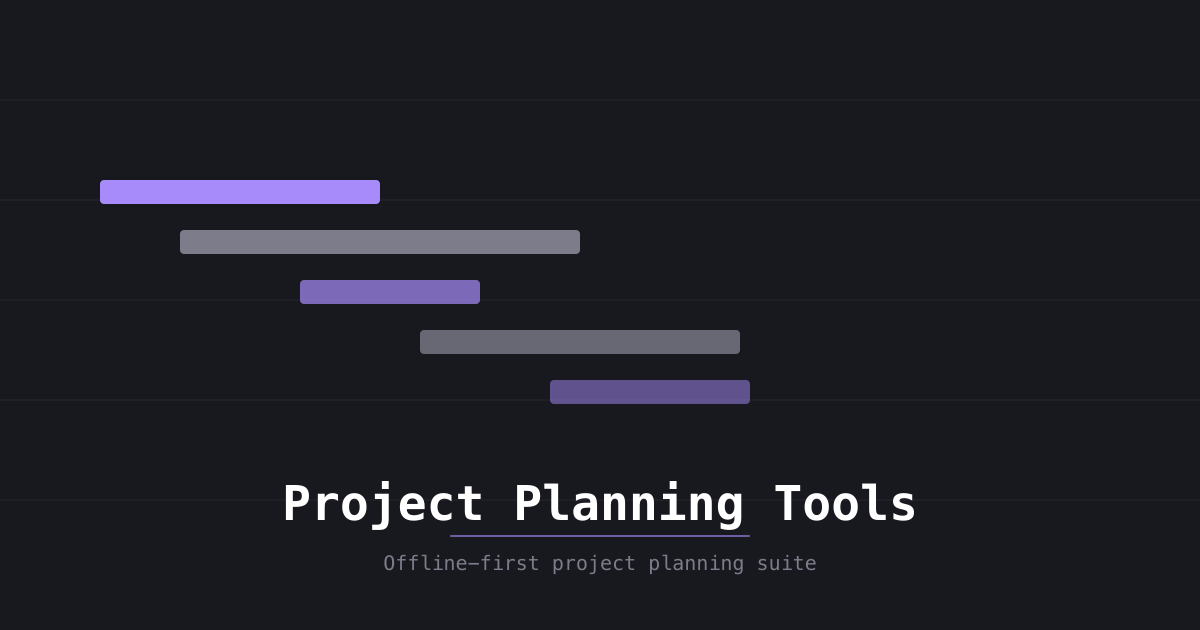
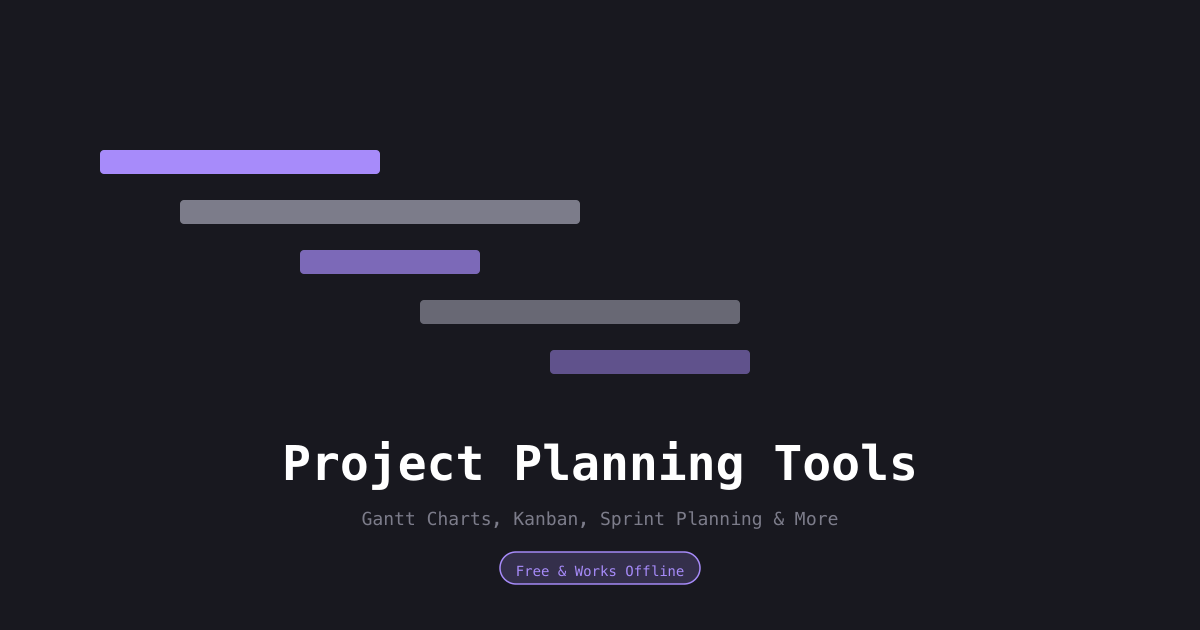
feat(meta): improve OG metadata for social sharing
- Update title to include tool names (53 chars, optimized for display)
- Expand description with "Free" keyword and value proposition (156 chars)
- Add "Free & Works Offline" CTA badge to og-image.png
- Remove background lines from og-image for cleaner appearance
- Apply consistent meta tags across all 11 HTML pages

Changed region(s): [[0.0617, 0.2111, 0.6475, 0.6635], [0.2158, 0.6937, 0.7708, 0.9349]]

diff --git a/tools/burndown/index.html b/tools/burndown/index.html
@@ -8,19 +8,19 @@
   <link rel="icon" type="image/svg+xml" href="../../favicon.svg">
 
   <!-- Description -->
-  <meta name="description" content="Offline-first project planning tools: Gantt charts, Kanban boards, Sprint planning, and more. No account required.">
+  <meta name="description" content="Free, offline-first planning tools: Gantt charts, Kanban boards, Sprint planning, Burndown charts & more. No account required — data stays in your browser.">
 
   <!-- Open Graph -->
   <meta property="og:type" content="website">
   <meta property="og:url" content="https://project.bissbert.ch/">
-  <meta property="og:title" content="Project Planning Tools">
-  <meta property="og:description" content="Offline-first project planning tools: Gantt charts, Kanban boards, Sprint planning, and more.">
+  <meta property="og:title" content="Project Planning Tools — Gantt, Kanban, Sprint & More">
+  <meta property="og:description" content="Free, offline-first planning tools: Gantt charts, Kanban boards, Sprint planning, Burndown charts & more. No account required — data stays in your browser.">
   <meta property="og:image" content="https://project.bissbert.ch/og-image.png">
 
   <!-- Twitter Card -->
   <meta name="twitter:card" content="summary_large_image">
-  <meta name="twitter:title" content="Project Planning Tools">
-  <meta name="twitter:description" content="Offline-first project planning tools: Gantt charts, Kanban boards, Sprint planning, and more.">
+  <meta name="twitter:title" content="Project Planning Tools — Gantt, Kanban, Sprint & More">
+  <meta name="twitter:description" content="Free, offline-first planning tools: Gantt charts, Kanban boards, Sprint planning, Burndown charts & more. No account required — data stays in your browser.">
   <meta name="twitter:image" content="https://project.bissbert.ch/og-image.png">
 
   <!-- PWA & iOS -->

diff --git a/tools/dashboard/index.html b/tools/dashboard/index.html
@@ -8,19 +8,19 @@
   <link rel="icon" type="image/svg+xml" href="../../favicon.svg">
 
   <!-- Description -->
-  <meta name="description" content="Offline-first project planning tools: Gantt charts, Kanban boards, Sprint planning, and more. No account required.">
+  <meta name="description" content="Free, offline-first planning tools: Gantt charts, Kanban boards, Sprint planning, Burndown charts & more. No account required — data stays in your browser.">
 
   <!-- Open Graph -->
   <meta property="og:type" content="website">
   <meta property="og:url" content="https://project.bissbert.ch/">
-  <meta property="og:title" content="Project Planning Tools">
-  <meta property="og:description" content="Offline-first project planning tools: Gantt charts, Kanban boards, Sprint planning, and more.">
+  <meta property="og:title" content="Project Planning Tools — Gantt, Kanban, Sprint & More">
+  <meta property="og:description" content="Free, offline-first planning tools: Gantt charts, Kanban boards, Sprint planning, Burndown charts & more. No account required — data stays in your browser.">
   <meta property="og:image" content="https://project.bissbert.ch/og-image.png">
 
   <!-- Twitter Card -->
   <meta name="twitter:card" content="summary_large_image">
-  <meta name="twitter:title" content="Project Planning Tools">
-  <meta name="twitter:description" content="Offline-first project planning tools: Gantt charts, Kanban boards, Sprint planning, and more.">
+  <meta name="twitter:title" content="Project Planning Tools — Gantt, Kanban, Sprint & More">
+  <meta name="twitter:description" content="Free, offline-first planning tools: Gantt charts, Kanban boards, Sprint planning, Burndown charts & more. No account required — data stays in your browser.">
   <meta name="twitter:image" content="https://project.bissbert.ch/og-image.png">
 
   <!-- PWA & iOS -->

diff --git a/tools/gantt/index.html b/tools/gantt/index.html
@@ -8,19 +8,19 @@
   <link rel="icon" type="image/svg+xml" href="../../favicon.svg">
 
   <!-- Description -->
-  <meta name="description" content="Offline-first project planning tools: Gantt charts, Kanban boards, Sprint planning, and more. No account required.">
+  <meta name="description" content="Free, offline-first planning tools: Gantt charts, Kanban boards, Sprint planning, Burndown charts & more. No account required — data stays in your browser.">
 
   <!-- Open Graph -->
   <meta property="og:type" content="website">
   <meta property="og:url" content="https://project.bissbert.ch/">
-  <meta property="og:title" content="Project Planning Tools">
-  <meta property="og:description" content="Offline-first project planning tools: Gantt charts, Kanban boards, Sprint planning, and more.">
+  <meta property="og:title" content="Project Planning Tools — Gantt, Kanban, Sprint & More">
+  <meta property="og:description" content="Free, offline-first planning tools: Gantt charts, Kanban boards, Sprint planning, Burndown charts & more. No account required — data stays in your browser.">
   <meta property="og:image" content="https://project.bissbert.ch/og-image.png">
 
   <!-- Twitter Card -->
   <meta name="twitter:card" content="summary_large_image">
-  <meta name="twitter:title" content="Project Planning Tools">
-  <meta name="twitter:description" content="Offline-first project planning tools: Gantt charts, Kanban boards, Sprint planning, and more.">
+  <meta name="twitter:title" content="Project Planning Tools — Gantt, Kanban, Sprint & More">
+  <meta name="twitter:description" content="Free, offline-first planning tools: Gantt charts, Kanban boards, Sprint planning, Burndown charts & more. No account required — data stays in your browser.">
   <meta name="twitter:image" content="https://project.bissbert.ch/og-image.png">
 
   <!-- PWA & iOS -->

diff --git a/tools/kanban/index.html b/tools/kanban/index.html
@@ -8,19 +8,19 @@
   <link rel="icon" type="image/svg+xml" href="../../favicon.svg">
 
   <!-- Description -->
-  <meta name="description" content="Offline-first project planning tools: Gantt charts, Kanban boards, Sprint planning, and more. No account required.">
+  <meta name="description" content="Free, offline-first planning tools: Gantt charts, Kanban boards, Sprint planning, Burndown charts & more. No account required — data stays in your browser.">
 
   <!-- Open Graph -->
   <meta property="og:type" content="website">
   <meta property="og:url" content="https://project.bissbert.ch/">
-  <meta property="og:title" content="Project Planning Tools">
-  <meta property="og:description" content="Offline-first project planning tools: Gantt charts, Kanban boards, Sprint planning, and more.">
+  <meta property="og:title" content="Project Planning Tools — Gantt, Kanban, Sprint & More">
+  <meta property="og:description" content="Free, offline-first planning tools: Gantt charts, Kanban boards, Sprint planning, Burndown charts & more. No account required — data stays in your browser.">
   <meta property="og:image" content="https://project.bissbert.ch/og-image.png">
 
   <!-- Twitter Card -->
   <meta name="twitter:card" content="summary_large_image">
-  <meta name="twitter:title" content="Project Planning Tools">
-  <meta name="twitter:description" content="Offline-first project planning tools: Gantt charts, Kanban boards, Sprint planning, and more.">
+  <meta name="twitter:title" content="Project Planning Tools — Gantt, Kanban, Sprint & More">
+  <meta name="twitter:description" content="Free, offline-first planning tools: Gantt charts, Kanban boards, Sprint planning, Burndown charts & more. No account required — data stays in your browser.">
   <meta name="twitter:image" content="https://project.bissbert.ch/og-image.png">
 
   <!-- PWA & iOS -->

diff --git a/tools/milestone-tracker/index.html b/tools/milestone-tracker/index.html
@@ -8,19 +8,19 @@
   <link rel="icon" type="image/svg+xml" href="../../favicon.svg">
 
   <!-- Description -->
-  <meta name="description" content="Offline-first project planning tools: Gantt charts, Kanban boards, Sprint planning, and more. No account required.">
+  <meta name="description" content="Free, offline-first planning tools: Gantt charts, Kanban boards, Sprint planning, Burndown charts & more. No account required — data stays in your browser.">
 
   <!-- Open Graph -->
   <meta property="og:type" content="website">
   <meta property="og:url" content="https://project.bissbert.ch/">
-  <meta property="og:title" content="Project Planning Tools">
-  <meta property="og:description" content="Offline-first project planning tools: Gantt charts, Kanban boards, Sprint planning, and more.">
+  <meta property="og:title" content="Project Planning Tools — Gantt, Kanban, Sprint & More">
+  <meta property="og:description" content="Free, offline-first planning tools: Gantt charts, Kanban boards, Sprint planning, Burndown charts & more. No account required — data stays in your browser.">
   <meta property="og:image" content="https://project.bissbert.ch/og-image.png">
 
   <!-- Twitter Card -->
   <meta name="twitter:card" content="summary_large_image">
-  <meta name="twitter:title" content="Project Planning Tools">
-  <meta name="twitter:description" content="Offline-first project planning tools: Gantt charts, Kanban boards, Sprint planning, and more.">
+  <meta name="twitter:title" content="Project Planning Tools — Gantt, Kanban, Sprint & More">
+  <meta name="twitter:description" content="Free, offline-first planning tools: Gantt charts, Kanban boards, Sprint planning, Burndown charts & more. No account required — data stays in your browser.">
   <meta name="twitter:image" content="https://project.bissbert.ch/og-image.png">
 
   <!-- PWA & iOS -->

diff --git a/tools/pert/index.html b/tools/pert/index.html
@@ -8,19 +8,19 @@
   <link rel="icon" type="image/svg+xml" href="../../favicon.svg">
 
   <!-- Description -->
-  <meta name="description" content="Offline-first project planning tools: Gantt charts, Kanban boards, Sprint planning, and more. No account required.">
+  <meta name="description" content="Free, offline-first planning tools: Gantt charts, Kanban boards, Sprint planning, Burndown charts & more. No account required — data stays in your browser.">
 
   <!-- Open Graph -->
   <meta property="og:type" content="website">
   <meta property="og:url" content="https://project.bissbert.ch/">
-  <meta property="og:title" content="Project Planning Tools">
-  <meta property="og:description" content="Offline-first project planning tools: Gantt charts, Kanban boards, Sprint planning, and more.">
+  <meta property="og:title" content="Project Planning Tools — Gantt, Kanban, Sprint & More">
+  <meta property="og:description" content="Free, offline-first planning tools: Gantt charts, Kanban boards, Sprint planning, Burndown charts & more. No account required — data stays in your browser.">
   <meta property="og:image" content="https://project.bissbert.ch/og-image.png">
 
   <!-- Twitter Card -->
   <meta name="twitter:card" content="summary_large_image">
-  <meta name="twitter:title" content="Project Planning Tools">
-  <meta name="twitter:description" content="Offline-first project planning tools: Gantt charts, Kanban boards, Sprint planning, and more.">
+  <meta name="twitter:title" content="Project Planning Tools — Gantt, Kanban, Sprint & More">
+  <meta name="twitter:description" content="Free, offline-first planning tools: Gantt charts, Kanban boards, Sprint planning, Burndown charts & more. No account required — data stays in your browser.">
   <meta name="twitter:image" content="https://project.bissbert.ch/og-image.png">
 
   <!-- PWA & iOS -->

diff --git a/tools/resource-calendar/index.html b/tools/resource-calendar/index.html
@@ -8,19 +8,19 @@
   <link rel="icon" type="image/svg+xml" href="../../favicon.svg">
 
   <!-- Description -->
-  <meta name="description" content="Offline-first project planning tools: Gantt charts, Kanban boards, Sprint planning, and more. No account required.">
+  <meta name="description" content="Free, offline-first planning tools: Gantt charts, Kanban boards, Sprint planning, Burndown charts & more. No account required — data stays in your browser.">
 
   <!-- Open Graph -->
   <meta property="og:type" content="website">
   <meta property="og:url" content="https://project.bissbert.ch/">
-  <meta property="og:title" content="Project Planning Tools">
-  <meta property="og:description" content="Offline-first project planning tools: Gantt charts, Kanban boards, Sprint planning, and more.">
+  <meta property="og:title" content="Project Planning Tools — Gantt, Kanban, Sprint & More">
+  <meta property="og:description" content="Free, offline-first planning tools: Gantt charts, Kanban boards, Sprint planning, Burndown charts & more. No account required — data stays in your browser.">
   <meta property="og:image" content="https://project.bissbert.ch/og-image.png">
 
   <!-- Twitter Card -->
   <meta name="twitter:card" content="summary_large_image">
-  <meta name="twitter:title" content="Project Planning Tools">
-  <meta name="twitter:description" content="Offline-first project planning tools: Gantt charts, Kanban boards, Sprint planning, and more.">
+  <meta name="twitter:title" content="Project Planning Tools — Gantt, Kanban, Sprint & More">
+  <meta name="twitter:description" content="Free, offline-first planning tools: Gantt charts, Kanban boards, Sprint planning, Burndown charts & more. No account required — data stays in your browser.">
   <meta name="twitter:image" content="https://project.bissbert.ch/og-image.png">
 
   <!-- PWA & iOS -->

diff --git a/tools/retrospective/index.html b/tools/retrospective/index.html
@@ -8,19 +8,19 @@
   <link rel="icon" type="image/svg+xml" href="../../favicon.svg">
 
   <!-- Description -->
-  <meta name="description" content="Offline-first project planning tools: Gantt charts, Kanban boards, Sprint planning, and more. No account required.">
+  <meta name="description" content="Free, offline-first planning tools: Gantt charts, Kanban boards, Sprint planning, Burndown charts & more. No account required — data stays in your browser.">
 
   <!-- Open Graph -->
   <meta property="og:type" content="website">
   <meta property="og:url" content="https://project.bissbert.ch/">
-  <meta property="og:title" content="Project Planning Tools">
-  <meta property="og:description" content="Offline-first project planning tools: Gantt charts, Kanban boards, Sprint planning, and more.">
+  <meta property="og:title" content="Project Planning Tools — Gantt, Kanban, Sprint & More">
+  <meta property="og:description" content="Free, offline-first planning tools: Gantt charts, Kanban boards, Sprint planning, Burndown charts & more. No account required — data stays in your browser.">
   <meta property="og:image" content="https://project.bissbert.ch/og-image.png">
 
   <!-- Twitter Card -->
   <meta name="twitter:card" content="summary_large_image">
-  <meta name="twitter:title" content="Project Planning Tools">
-  <meta name="twitter:description" content="Offline-first project planning tools: Gantt charts, Kanban boards, Sprint planning, and more.">
+  <meta name="twitter:title" content="Project Planning Tools — Gantt, Kanban, Sprint & More">
+  <meta name="twitter:description" content="Free, offline-first planning tools: Gantt charts, Kanban boards, Sprint planning, Burndown charts & more. No account required — data stays in your browser.">
   <meta name="twitter:image" content="https://project.bissbert.ch/og-image.png">
 
   <!-- PWA & iOS -->

diff --git a/tools/sprint/index.html b/tools/sprint/index.html
@@ -8,19 +8,19 @@
   <link rel="icon" type="image/svg+xml" href="../../favicon.svg">
 
   <!-- Description -->
-  <meta name="description" content="Offline-first project planning tools: Gantt charts, Kanban boards, Sprint planning, and more. No account required.">
+  <meta name="description" content="Free, offline-first planning tools: Gantt charts, Kanban boards, Sprint planning, Burndown charts & more. No account required — data stays in your browser.">
 
   <!-- Open Graph -->
   <meta property="og:type" content="website">
   <meta property="og:url" content="https://project.bissbert.ch/">
-  <meta property="og:title" content="Project Planning Tools">
-  <meta property="og:description" content="Offline-first project planning tools: Gantt charts, Kanban boards, Sprint planning, and more.">
+  <meta property="og:title" content="Project Planning Tools — Gantt, Kanban, Sprint & More">
+  <meta property="og:description" content="Free, offline-first planning tools: Gantt charts, Kanban boards, Sprint planning, Burndown charts & more. No account required — data stays in your browser.">
   <meta property="og:image" content="https://project.bissbert.ch/og-image.png">
 
   <!-- Twitter Card -->
   <meta name="twitter:card" content="summary_large_image">
-  <meta name="twitter:title" content="Project Planning Tools">
-  <meta name="twitter:description" content="Offline-first project planning tools: Gantt charts, Kanban boards, Sprint planning, and more.">
+  <meta name="twitter:title" content="Project Planning Tools — Gantt, Kanban, Sprint & More">
+  <meta name="twitter:description" content="Free, offline-first planning tools: Gantt charts, Kanban boards, Sprint planning, Burndown charts & more. No account required — data stays in your browser.">
   <meta name="twitter:image" content="https://project.bissbert.ch/og-image.png">
 
   <!-- PWA & iOS -->

diff --git a/tools/time-tracker/index.html b/tools/time-tracker/index.html
@@ -8,19 +8,19 @@
   <link rel="icon" type="image/svg+xml" href="../../favicon.svg">
 
   <!-- Description -->
-  <meta name="description" content="Offline-first project planning tools: Gantt charts, Kanban boards, Sprint planning, and more. No account required.">
+  <meta name="description" content="Free, offline-first planning tools: Gantt charts, Kanban boards, Sprint planning, Burndown charts & more. No account required — data stays in your browser.">
 
   <!-- Open Graph -->
   <meta property="og:type" content="website">
   <meta property="og:url" content="https://project.bissbert.ch/">
-  <meta property="og:title" content="Project Planning Tools">
-  <meta property="og:description" content="Offline-first project planning tools: Gantt charts, Kanban boards, Sprint planning, and more.">
+  <meta property="og:title" content="Project Planning Tools — Gantt, Kanban, Sprint & More">
+  <meta property="og:description" content="Free, offline-first planning tools: Gantt charts, Kanban boards, Sprint planning, Burndown charts & more. No account required — data stays in your browser.">
   <meta property="og:image" content="https://project.bissbert.ch/og-image.png">
 
   <!-- Twitter Card -->
   <meta name="twitter:card" content="summary_large_image">
-  <meta name="twitter:title" content="Project Planning Tools">
-  <meta name="twitter:description" content="Offline-first project planning tools: Gantt charts, Kanban boards, Sprint planning, and more.">
+  <meta name="twitter:title" content="Project Planning Tools — Gantt, Kanban, Sprint & More">
+  <meta name="twitter:description" content="Free, offline-first planning tools: Gantt charts, Kanban boards, Sprint planning, Burndown charts & more. No account required — data stays in your browser.">
   <meta name="twitter:image" content="https://project.bissbert.ch/og-image.png">
 
   <!-- PWA & iOS -->

diff --git a/index.html b/index.html
@@ -7,19 +7,19 @@
   <link rel="icon" type="image/svg+xml" href="favicon.svg">
 
   <!-- Description -->
-  <meta name="description" content="Offline-first project planning tools: Gantt charts, Kanban boards, Sprint planning, and more. No account required.">
+  <meta name="description" content="Free, offline-first planning tools: Gantt charts, Kanban boards, Sprint planning, Burndown charts & more. No account required — data stays in your browser.">
 
   <!-- Open Graph -->
   <meta property="og:type" content="website">
   <meta property="og:url" content="https://project.bissbert.ch/">
-  <meta property="og:title" content="Project Planning Tools">
-  <meta property="og:description" content="Offline-first project planning tools: Gantt charts, Kanban boards, Sprint planning, and more.">
+  <meta property="og:title" content="Project Planning Tools — Gantt, Kanban, Sprint & More">
+  <meta property="og:description" content="Free, offline-first planning tools: Gantt charts, Kanban boards, Sprint planning, Burndown charts & more. No account required — data stays in your browser.">
   <meta property="og:image" content="https://project.bissbert.ch/og-image.png">
 
   <!-- Twitter Card -->
   <meta name="twitter:card" content="summary_large_image">
-  <meta name="twitter:title" content="Project Planning Tools">
-  <meta name="twitter:description" content="Offline-first project planning tools: Gantt charts, Kanban boards, Sprint planning, and more.">
+  <meta name="twitter:title" content="Project Planning Tools — Gantt, Kanban, Sprint & More">
+  <meta name="twitter:description" content="Free, offline-first planning tools: Gantt charts, Kanban boards, Sprint planning, Burndown charts & more. No account required — data stays in your browser.">
   <meta name="twitter:image" content="https://project.bissbert.ch/og-image.png">
 
   <!-- PWA & iOS -->
